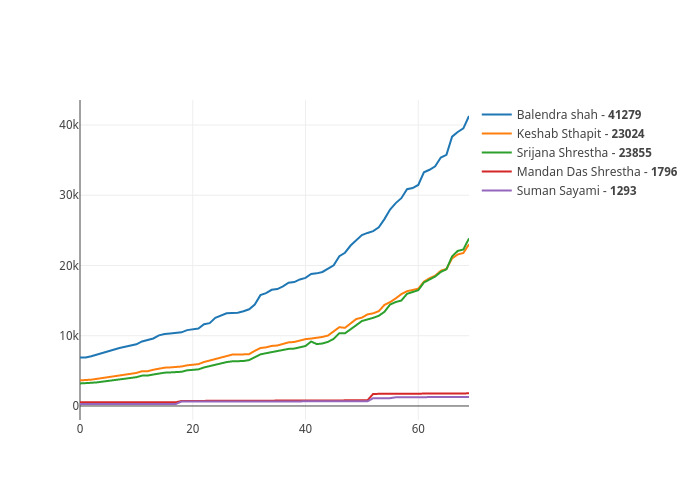
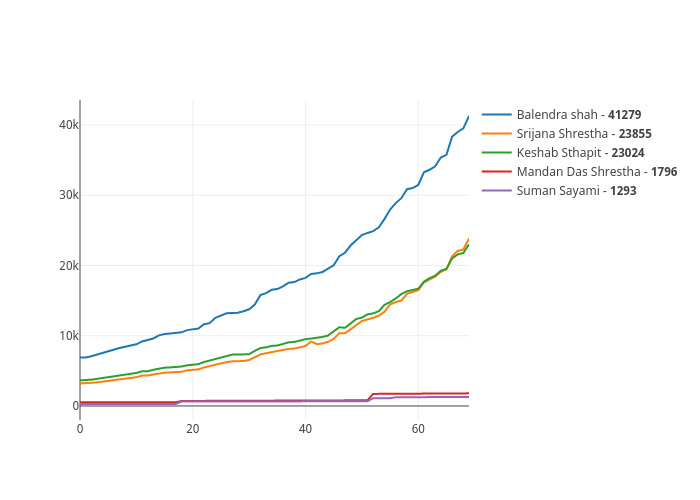
lead changes automaticallly

diff --git a/public/index.js b/public/index.js
@@ -52,26 +52,31 @@ const fillMaps = async () => {
     var BalendraShah = {
         y: Balendatas,
         name: `Balendra shah - <b>${Balendatas[Balendatas.length - 1]}</b>`,
-        
+        votes : Balendatas[Balendatas.length - 1]
+
         // text : Balendatas[Balendatas.length - 1]
     }
     var KesabSthapit = {
         y: Kesabdatas,
         name: `Keshab Sthapit - <b>${Kesabdatas[Kesabdatas.length - 1]}</b>`,
+        votes : Kesabdatas[Kesabdatas.length - 1]
         // text : Kesabdatas[Kesabdatas.length - 1]
     }
     var SrijanaShrestha = {
         y: Srijanadatas,
         name: `Srijana Shrestha - <b>${Srijanadatas[Srijanadatas.length - 1]}</b>`,
+        votes : Srijanadatas[Srijanadatas.length - 1]
         // text : Srijanadatas[Srijanadatas.length - 1]
     }
     var SumanSayami = {
         y : Sumandatas,
-        name : `Suman Sayami - <b>${Sumandatas[Sumandatas.length - 1]}</b>`
+        name : `Suman Sayami - <b>${Sumandatas[Sumandatas.length - 1]}</b>`,
+        votes : Sumandatas[Sumandatas.length - 1]
     }
     var MandanDasSharestha ={
         y: Madandatas,
-        name : `Mandan Das Shrestha - <b>${Madandatas[Madandatas.length - 1]}</b>`
+        name : `Mandan Das Shrestha - <b>${Madandatas[Madandatas.length - 1]}</b>`,
+        votes : Madandatas[Madandatas.length - 1]
     }
     var layout = {
 
@@ -88,11 +93,12 @@ const fillMaps = async () => {
         height:800
 
     };
-    inOrder = []
+    const noOrder = [BalendraShah, KesabSthapit, SrijanaShrestha, MandanDasSharestha ,SumanSayami]
+    const inOrder = noOrder.sort((a, b)=> b.votes - a.votes )
 
     document.getElementById('gd').innerHTML = ''
     document.getElementById('name').innerHTML = '<b>Vote counts of major mayoral candidates in KTM.</b>'
-    await Plotly.newPlot("gd", [BalendraShah, KesabSthapit, SrijanaShrestha, MandanDasSharestha ,SumanSayami])
+    await Plotly.newPlot("gd", inOrder)
 
     await Plotly.toImage("gd", { format: "jpeg", height: 500, width: 700 }).then((url) => {
         const options = {
